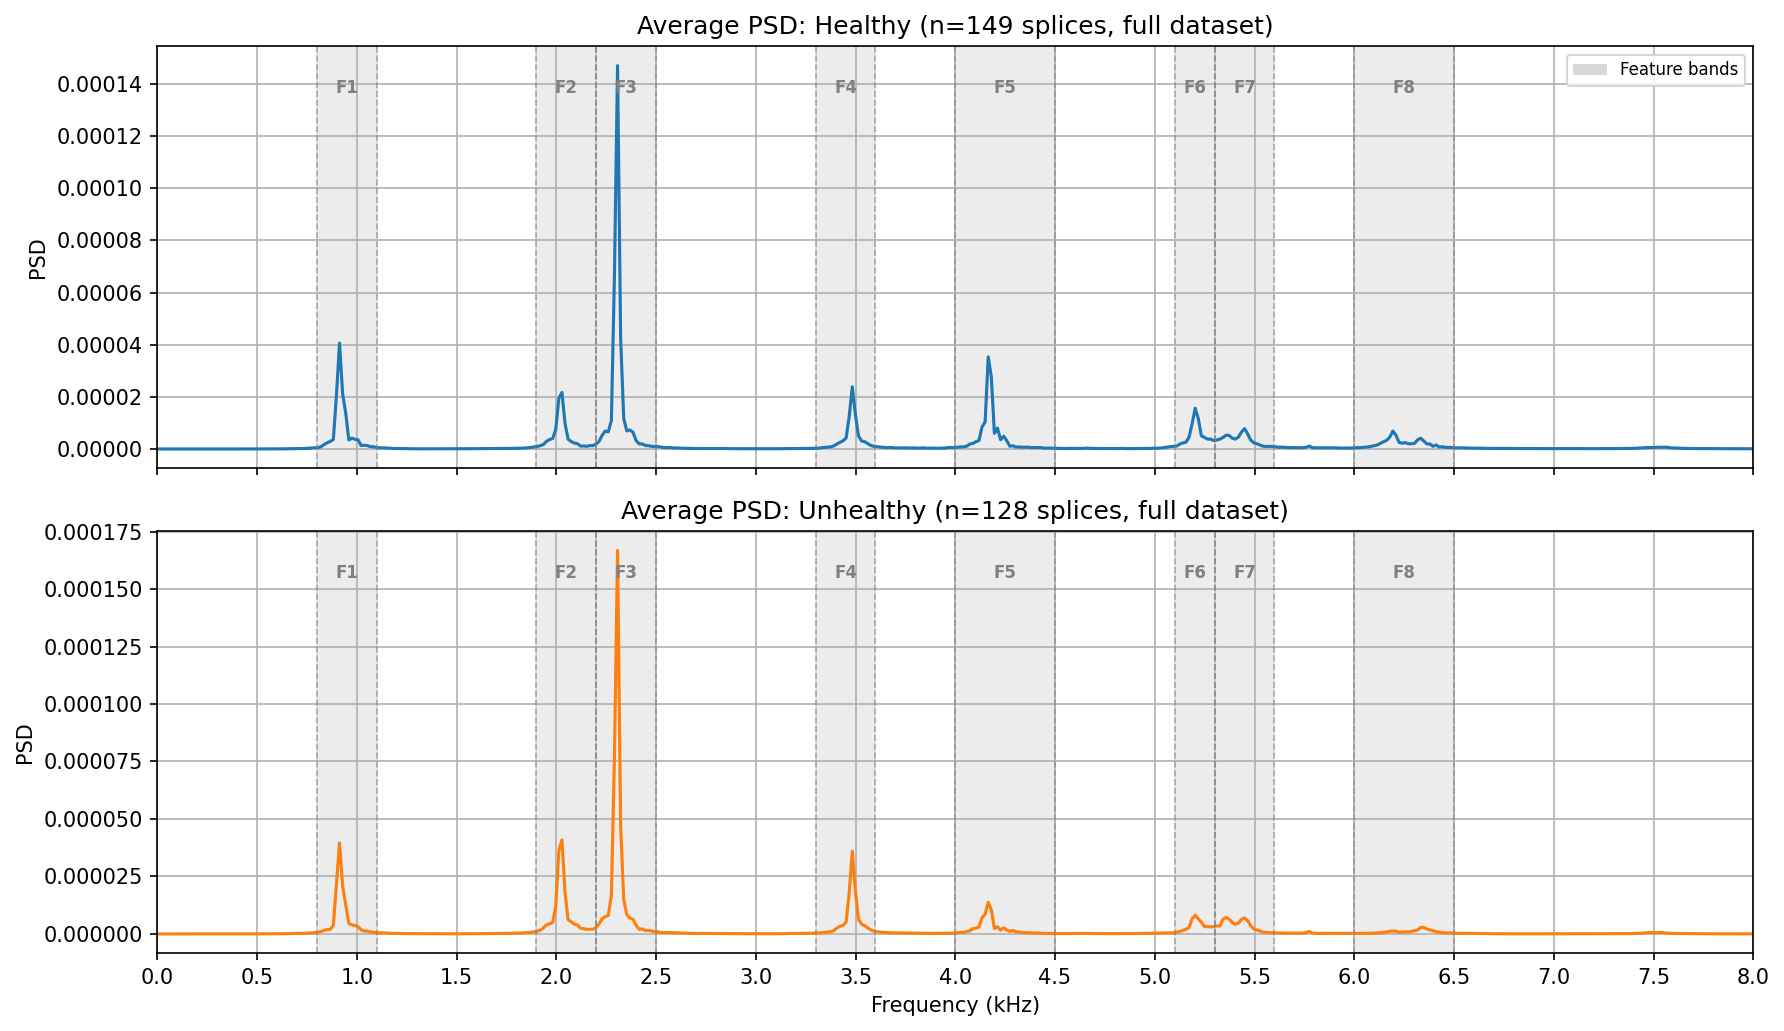
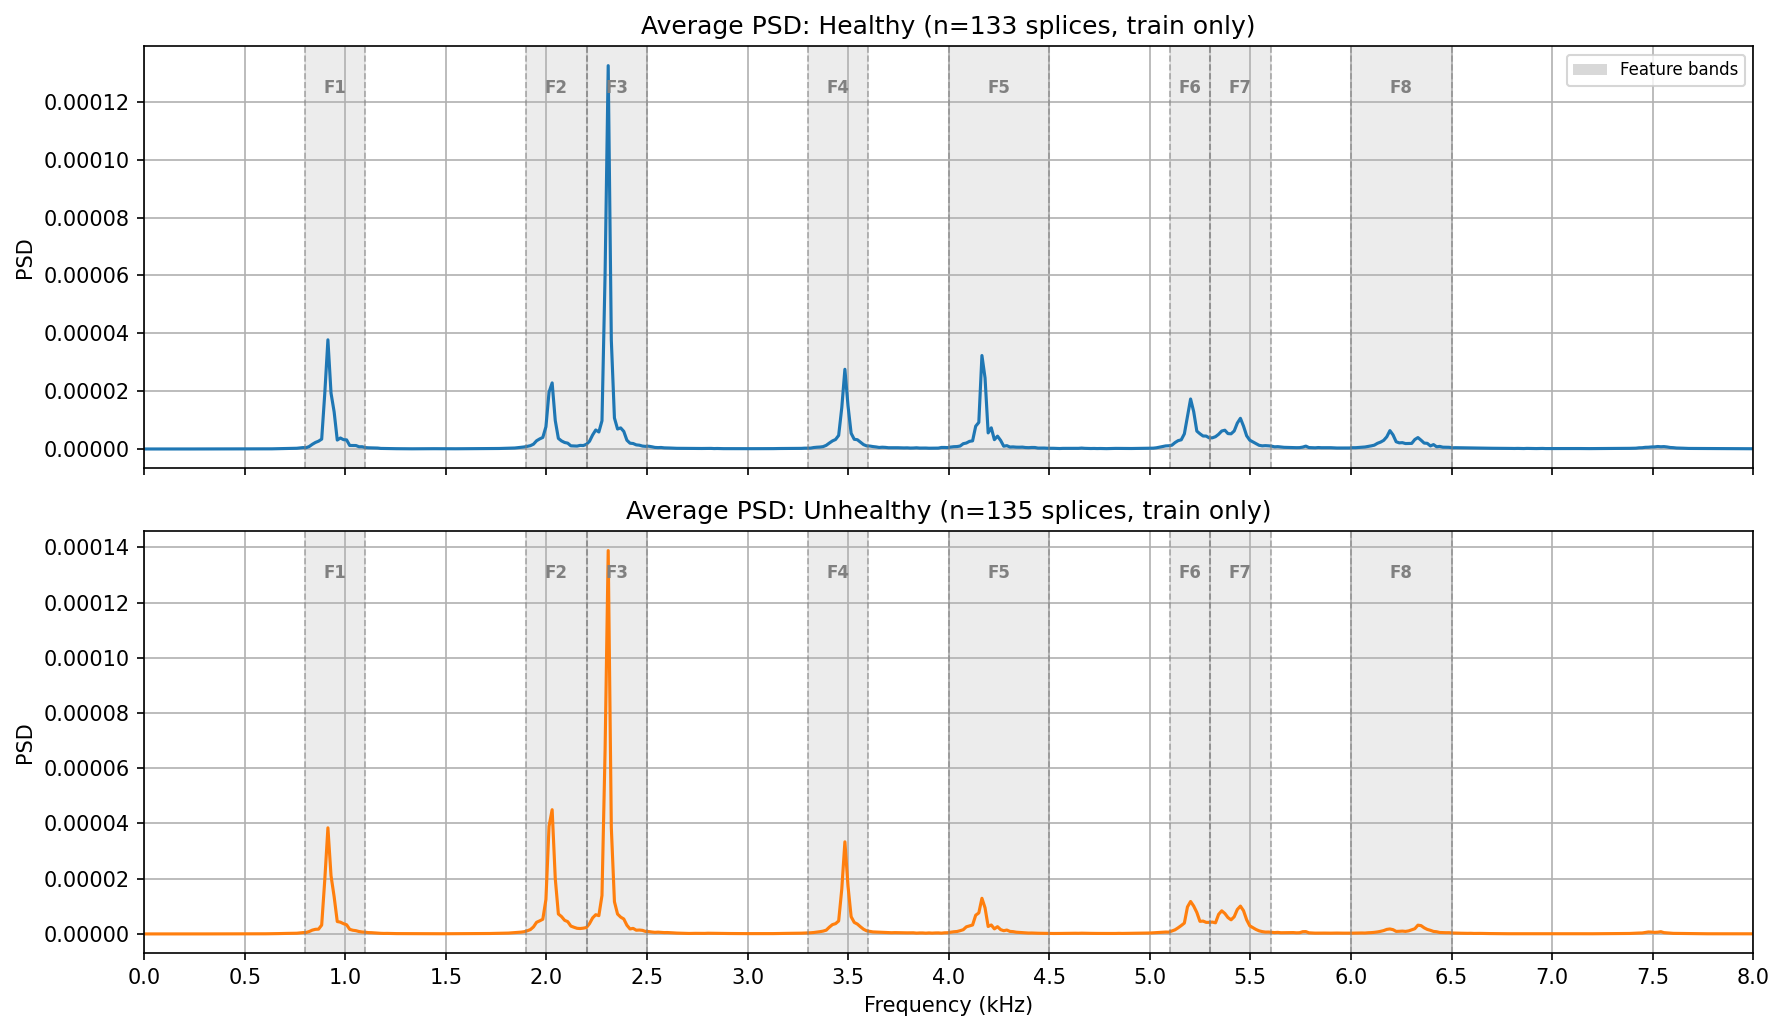
sync

diff --git a/Machine Learning/HW2/hw2.py b/Machine Learning/HW2/hw2.py
@@ -94,8 +94,8 @@ plt.show()
 # =============================================================================
 # %%
 def splice_audio(audio, sr, pre_peak=100, post_peak=3000):
-    threshold = 0.3 * np.max(np.abs(audio))
-    peaks, _ = find_peaks(audio, height=threshold, distance=30000)
+    threshold = 0.2 * np.max(np.abs(audio))
+    peaks, _ = find_peaks(np.abs(audio), height=threshold, distance=20000)
     valid = [p for p in peaks if p >= pre_peak and p + post_peak <= len(audio)]
     splices = np.array([audio[p - pre_peak: p + post_peak] for p in valid])
     return splices
@@ -129,7 +129,7 @@ print(
 
 
 # =============================================================================
-# 4. AVERAGE PSD (full dataset) + TRAIN/TEST SPLIT
+# 4. TRAIN/TEST SPLIT + AVERAGE PSD (training data only)
 # =============================================================================
 # %%
 def peak_normalize(s):
@@ -137,15 +137,30 @@ def peak_normalize(s):
     return s / peak if peak > 0 else s
 
 
-f_h, _ = periodogram(peak_normalize(healthy_hits[0]), fs=SR)
-avg_psd_healthy = np.mean(
-    [periodogram(peak_normalize(s), fs=SR)[1] for s in healthy_hits], axis=0
-)
-avg_psd_unhealthy = np.mean(
-    [periodogram(peak_normalize(s), fs=SR)[1] for s in unhealthy_hits], axis=0
+# Split first so PSD visualisation is computed only on training data
+X_all = np.concatenate([healthy_hits, unhealthy_hits], axis=0)
+y_all = np.array([0] * len(healthy_hits) + [1] * len(unhealthy_hits))
+
+X_train, X_test, y_train, y_test = train_test_split(
+    X_all, y_all, test_size=0.3, shuffle=True, random_state=42, stratify=y_all
 )
 
-# Feature bands identified from full dataset (kHz, for plotting)
+print(f"Train - total: {len(X_train)}  ({(y_train == 0).sum()} healthy, {(y_train == 1).sum()} unhealthy)")
+print(f"Test  - total: {len(X_test)}  ({(y_test == 0).sum()} healthy, {(y_test == 1).sum()} unhealthy)")
+
+# Average PSD on training data only (avoids look-ahead into test set)
+train_healthy   = X_train[y_train == 0]
+train_unhealthy = X_train[y_train == 1]
+
+f_h, _ = periodogram(peak_normalize(train_healthy[0]), fs=SR)
+avg_psd_healthy = np.mean(
+    [periodogram(peak_normalize(s), fs=SR)[1] for s in train_healthy], axis=0
+)
+avg_psd_unhealthy = np.mean(
+    [periodogram(peak_normalize(s), fs=SR)[1] for s in train_unhealthy], axis=0
+)
+
+# Feature bands — mirrors bands_hz exactly (kHz, for plotting)
 bands = [
     (0.8, 1.1, "F1", False),
     (1.9, 2.2, "F2", False),
@@ -179,7 +194,7 @@ def add_bands(axis):
 
 fig, ax = plt.subplots(2, 1, figsize=(12, 7), sharex=True)
 ax[0].plot(f_h / 1000, avg_psd_healthy)
-ax[0].set_title(f"Average PSD: Healthy (n={len(healthy_hits)} splices, full dataset)")
+ax[0].set_title(f"Average PSD: Healthy (n={len(train_healthy)} splices, train only)")
 ax[0].set_ylabel("PSD")
 ax[0].grid()
 ax[0].set_xlim(0, 8)
@@ -187,7 +202,7 @@ add_bands(ax[0])
 
 ax[1].plot(f_h / 1000, avg_psd_unhealthy, color="tab:orange")
 ax[1].set_title(
-    f"Average PSD: Unhealthy (n={len(unhealthy_hits)} splices, full dataset)"
+    f"Average PSD: Unhealthy (n={len(train_unhealthy)} splices, train only)"
 )
 ax[1].set_ylabel("PSD")
 ax[1].set_xlabel("Frequency (kHz)")
@@ -209,17 +224,6 @@ plt.tight_layout()
 plt.savefig(os.path.join(IMAGES_DIR, "02_average_psd_bands.png"), dpi=150, bbox_inches="tight")
 plt.show()
 
-# Train / test split (shuffled to avoid cell-ordering bias)
-X_all = np.concatenate([healthy_hits, unhealthy_hits], axis=0)
-y_all = np.array([0] * len(healthy_hits) + [1] * len(unhealthy_hits))
-
-X_train, X_test, y_train, y_test = train_test_split(
-    X_all, y_all, test_size=0.3, shuffle=True, random_state=42, stratify=y_all
-)
-
-print(f"Train - total: {len(X_train)}  ({(y_train == 0).sum()} healthy, {(y_train == 1).sum()} unhealthy)")
-print(f"Test  - total: {len(X_test)}  ({(y_test == 0).sum()} healthy, {(y_test == 1).sum()} unhealthy)")
-
 
 # =============================================================================
 # 5. FEATURE EXTRACTION  (MFCC and PSD band energies)
@@ -237,17 +241,16 @@ def extract_mfcc(splices, sr, n_mfcc=N_MFCC):
 
 
 
-# Band energies in Hz matching the identified feature bands
+# Band energies in Hz — matches bands list exactly
 bands_hz = [
-    (800, 1100),  # F1
-    (1700, 1900),  # F2
-    (1900, 2500),  # F3
-    (2800, 3100),  # F4
-    (3300, 3600),  # F5
-    (4000, 4500),  # F6
-    (5100, 5600),  # F7
-    (6000, 6500),  # F8 - healthy only
-    (7000, 7500),  # F9 - healthy only
+    (800,  1100),  # F1
+    (1900, 2200),  # F2
+    (2200, 2500),  # F3
+    (3300, 3600),  # F4
+    (4000, 4500),  # F5
+    (5100, 5300),  # F6
+    (5300, 5600),  # F7
+    (6000, 6500),  # F8
 ]
 
 
